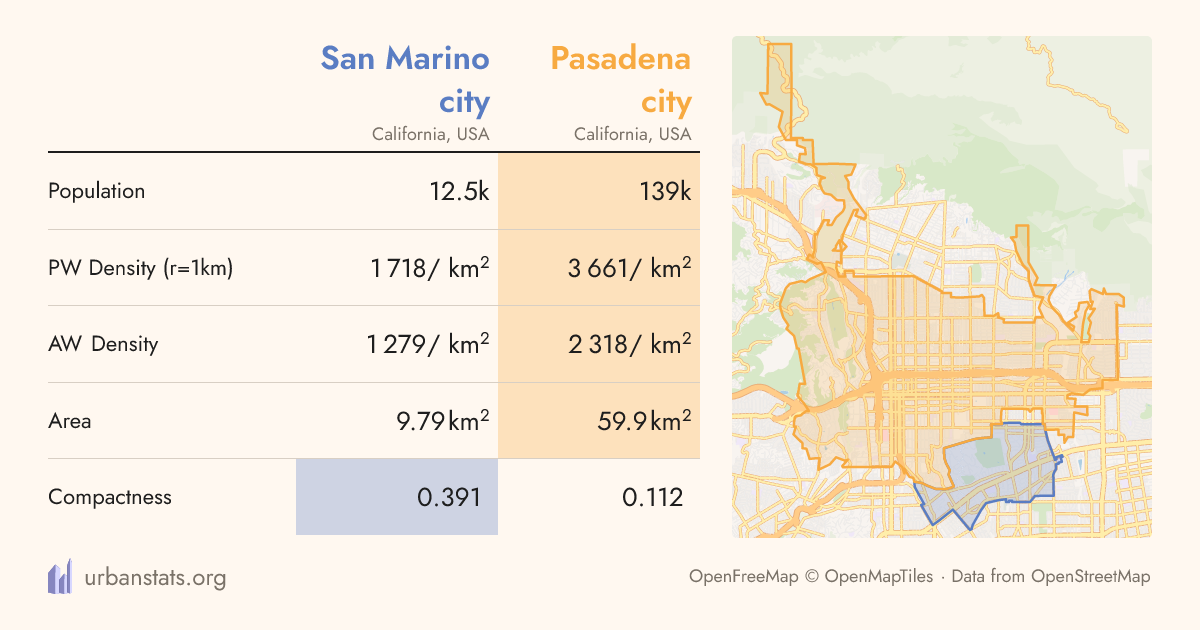
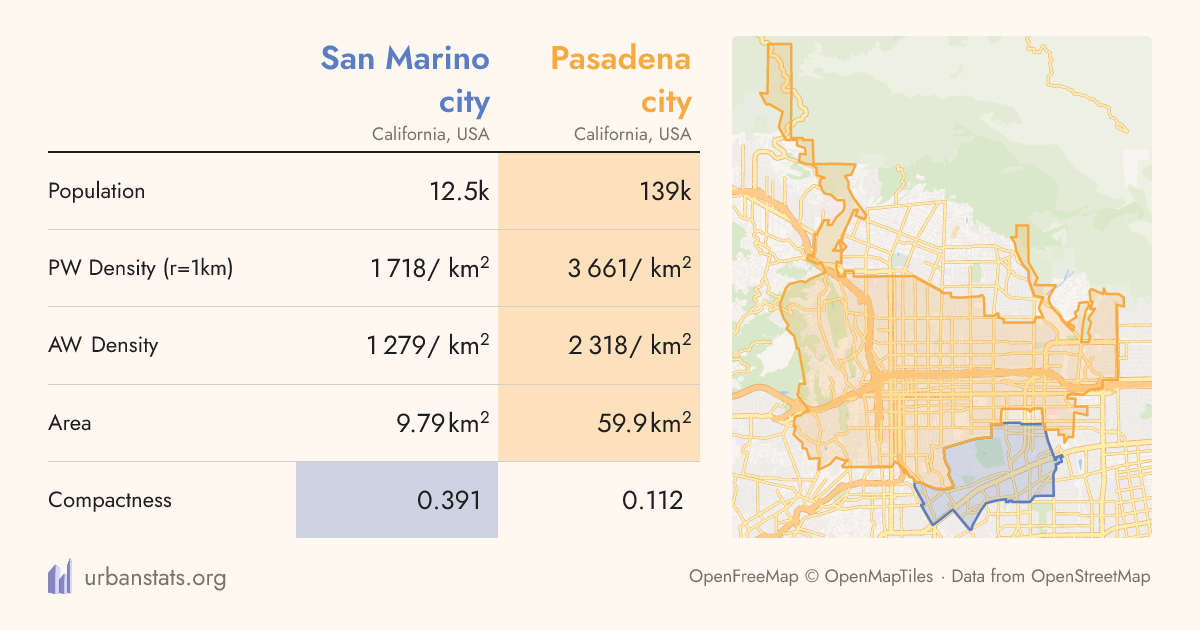
Fix layout

diff --git a/react/cf-og-worker/src/embed.tsx b/react/cf-og-worker/src/embed.tsx
@@ -467,15 +467,16 @@ interface TableLayout {
     valueColumn: number
     valueSize: number
     headerSize: number
-    rowPadding: number
 }
 
 const cellPadding = 8
+const rowPadding = 10
 
+/** What a row needs at least. The rows share out whatever the table's fixed height leaves over. */
 function rowHeight(stat: ComparisonCard['stats'][number], layout: TableLayout): number {
     const name = linesTaken(stat.name, layout.nameColumn - cellPadding, layout.nameSize) * layout.nameSize
     // Plus the rule above the row.
-    return layout.rowPadding * 2 + Math.max(name, layout.valueSize) * lineHeight + 2
+    return rowPadding * 2 + Math.max(name, layout.valueSize) * lineHeight + 2
 }
 
 function comparisonValue(value: number, unit: UnitType, units: Units, fontSize: number): ReactNode[] {
@@ -490,12 +491,15 @@ function comparisonRow(stat: ComparisonCard['stats'][number], index: number, lay
             key={stat.name}
             style={{
                 display: 'flex',
-                alignItems: 'center',
+                // Grown to share out what the rows do not fill, so the table ends where the map does.
+                flex: 1,
+                // Stretched, so a shaded winner fills its row rather than only the text in it.
+                alignItems: 'stretch',
                 lineHeight,
                 borderTop: index === 0 ? `2px solid ${colors.text}` : `1px solid ${colors.rule}`,
             }}
         >
-            <div style={{ flex: 1, fontSize: layout.nameSize, padding: `${layout.rowPadding}px ${cellPadding}px ${layout.rowPadding}px 0` }}>{stat.name}</div>
+            <div style={{ display: 'flex', flex: 1, alignItems: 'center', fontSize: layout.nameSize, padding: `${rowPadding}px ${cellPadding}px ${rowPadding}px 0` }}>{stat.name}</div>
             {layout.colors.map((color, region) => (
                 <div
                     key={region}
@@ -503,7 +507,8 @@ function comparisonRow(stat: ComparisonCard['stats'][number], index: number, lay
                         display: 'flex',
                         width: layout.valueColumn,
                         fontSize: layout.valueSize,
-                        padding: `${layout.rowPadding}px ${cellPadding}px`,
+                        padding: `${rowPadding}px ${cellPadding}px`,
+                        alignItems: 'center',
                         justifyContent: 'flex-end',
                         // The largest value, shaded the way the comparison table shades it.
                         backgroundColor: stat.highlight === region ? mixWithBackground(color, theme.mixPct / 100, colors.background) : 'transparent',
@@ -582,7 +587,6 @@ export async function comparisonEmbedCard(comparison: ComparisonCard, shapes: Ri
         valueColumn,
         valueSize: Math.min(26, Math.round(valueColumn / 6.5)),
         headerSize: sizeToFit(regions.map(region => region.shortname), valueColumn - cellPadding * 2, 2, maxHeaderSize, 13, boldCharacterWidth),
-        rowPadding: 10,
     }
 
     const headerLines = Math.max(...regions.map(region => linesTaken(region.shortname, valueColumn - cellPadding * 2, layout.headerSize, boldCharacterWidth)))
@@ -597,15 +601,6 @@ export async function comparisonEmbedCard(comparison: ComparisonCard, shapes: Ri
         }
         budget -= takes
         stats.push(stat)
-    }
-    // What no further row fits into is spread over the rows, rather than left under the table.
-    layout.rowPadding += Math.min(14, budget / (2 * Math.max(1, stats.length)))
-
-    // Measured rather than given the whole body: the spread above is capped, so the table does not
-    // always reach the footer, and a map that did would hang below it.
-    const mapSize = {
-        width: mapWidth,
-        height: columnHeaderHeight + stats.reduce((total, stat) => total + rowHeight(stat, layout), 0),
     }
 
     return (
@@ -622,11 +617,11 @@ export async function comparisonEmbedCard(comparison: ComparisonCard, shapes: Ri
             }}
         >
             <div style={{ display: 'flex', flex: 1, alignItems: 'flex-start', justifyContent: 'center' }}>
-                <div style={{ display: 'flex', flexDirection: 'column', width: layout.nameColumn + layout.valueColumn * regions.length, marginRight: withMap ? mapGap : 0 }}>
+                <div style={{ display: 'flex', flexDirection: 'column', width: layout.nameColumn + layout.valueColumn * regions.length, height: body, marginRight: withMap ? mapGap : 0 }}>
                     {comparisonHeader(regions, layout)}
                     {stats.map((stat, index) => comparisonRow(stat, index, layout, comparison.units))}
                 </div>
-                {withMap ? await mapPanel(drawn, mapSize, tileOrigin) : <div style={{ display: 'flex' }}></div>}
+                {withMap ? await mapPanel(drawn, { width: mapWidth, height: body }, tileOrigin) : <div style={{ display: 'flex' }}></div>}
             </div>
             <div style={{ display: 'flex', justifyContent: 'space-between', fontSize: footerSize, color: colors.muted, alignItems: 'center' }}>
                 {wordmark(footerSize)}
